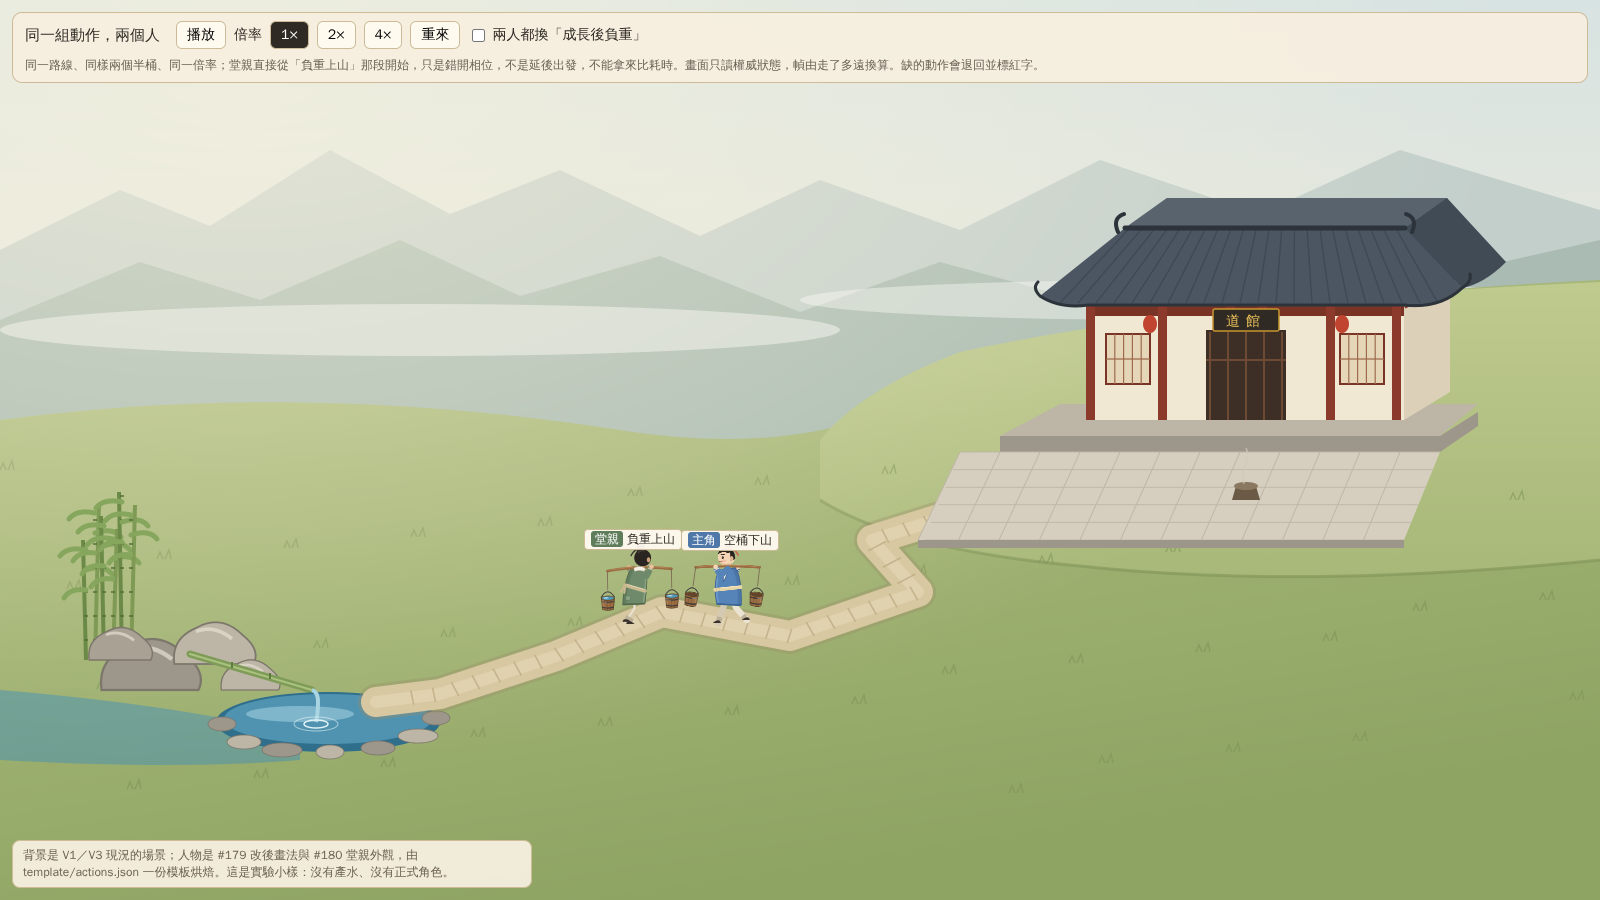
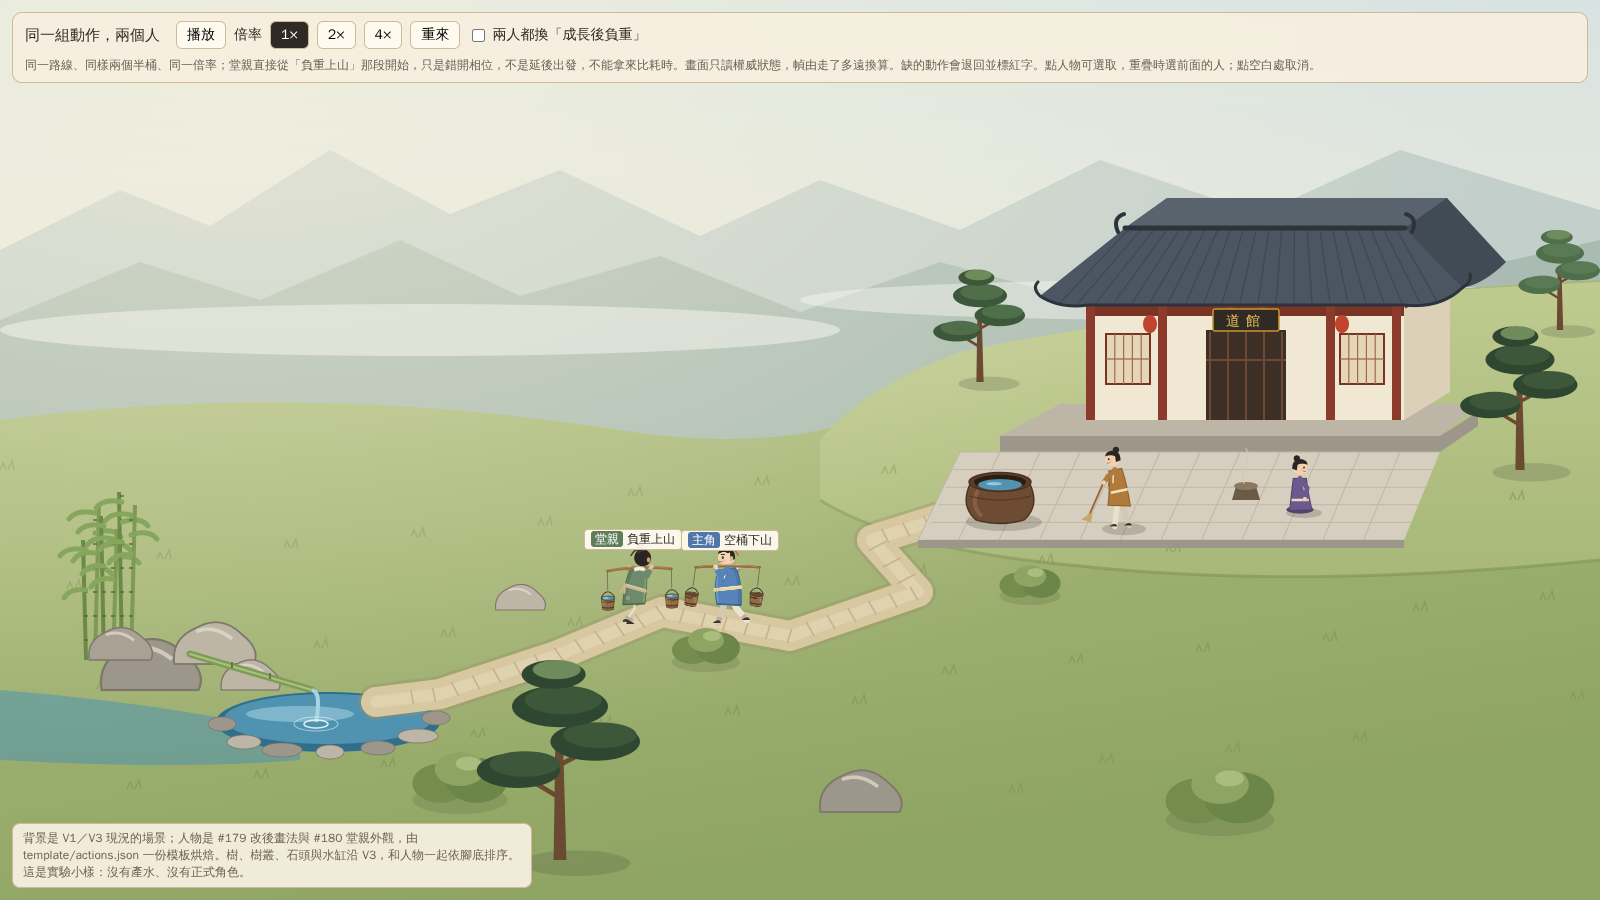
BL-V04: occlusion and selection in the template page (Refs #181)
Props from scene.json are depth-sorted with people by foot y; clicking a
character selects the frontmost hit (44px min tap target), shows a ring,
tag highlight and a read-only info panel. Selection never touches the
authority state. page-check grows to 20 checks with screenshots.

實際主筆：Claude

Claude-Session: https://claude.ai/code/session_012LmwTNb7S2YSXiJSVRNLd3

diff --git a/sect-chronicle/experiments/water-carry/template/checks/page-check.js b/sect-chronicle/experiments/water-carry/template/checks/page-check.js
@@ -1,5 +1,6 @@
 #!/usr/bin/env node
-// BL-V04 頁面檢查（#181）：真的打開 template/ 小樣頁，驗兩人共用動作在畫面上成立，並輸出兩張對照圖。
+// BL-V04 頁面檢查（#181）：真的打開 template/ 小樣頁，驗兩人共用動作在畫面上成立，並輸出對照圖。
+// 第 9～13 項驗第 4 項的遮擋與選取：點景與人物依腳底排序、點選與重疊選前、選取不改權威狀態、窄畫面點得到。
 // 只讀頁面公開的 window.v04；任何一項不成立就印 FAIL、結束碼 1。
 // 用法（在 experiments/water-carry 下，先 python3 -m http.server 8771）：
 //   NODE_PATH=$(npm root -g) node template/checks/page-check.js design/bl-v04
@@ -116,7 +117,102 @@ const check = (ok, msg) => { note(ok ? 'ok  ' : 'FAIL', msg); if (!ok) fails.pus
   check(hr && hr.action === 'idle' && hr.fallback, `主角休息：缺「坐下歇」→ 退回「待機」（${hr && hr.texture}）`);
   check(cr && cr.action === 'rest' && !cr.fallback, `堂親休息：顯示「坐下歇」（${cr && cr.texture}）`);
 
-  // 9. 對照板
+  // 9. 遮擋：點景與人物同層、依腳底 y 排序。走兩趟，每一步都核
+  const ov = (a, b) => a.x < b.x + b.w && b.x < a.x + a.w && a.y < b.y + b.h && b.y < a.y + a.h;
+  await click('#restart');
+  const props = await page.evaluate(() => window.v04.props().filter((q) => q.label !== 'Sprite'));
+  let sortedOk = true, wrong = 0;
+  const best = { behind: { step: -1, depth: 0 }, front: { step: -1, depth: 0 } };
+  const seen = {};
+  for (let i = 0; i < 1400; i++) {
+    await page.evaluate(() => window.v04.advance(100));
+    const r = await page.evaluate(() => ({ order: window.v04.order(), hero: window.v04.worldBox('hero'), cousin: window.v04.worldBox('cousin'), s: window.v04.snapshot() }));
+    const zs = r.order.filter((c) => c.label !== 'Sprite' || c.z !== 0).map((c) => c.z);
+    if (zs.some((z, j) => j && z < zs[j - 1])) sortedOk = false;
+    const idx = (l) => r.order.findIndex((c) => c.label === l);
+    for (const id of ['hero', 'cousin']) for (const q of props) {
+      if (!ov(r[id], q)) continue;
+      const front = idx(id) > idx(q.label), shouldFront = r.s.people[id].y > q.z;
+      if (front !== shouldFront) wrong++;
+      const k = `${q.label}:${front ? '人在前' : '人在後'}`;
+      seen[k] = (seen[k] || 0) + 1;
+      // 記下重疊最深的一步，最後各留一張近照：主角在水缸後倒水、走在石頭前
+      const depth = Math.min(r.hero.y + r.hero.h, q.y + q.h) - Math.max(r.hero.y, q.y);
+      if (id === 'hero' && !front && q.label === 'vat' && depth > best.behind.depth) best.behind = { step: i + 1, depth };
+      if (id === 'hero' && front && q.label === 'rock-a' && depth > best.front.depth) best.front = { step: i + 1, depth };
+    }
+  }
+  check(sortedOk, '走兩趟共 1400 步：每一步畫面的繪製順序都依腳底 y 由後到前');
+  for (const [k, file] of [['behind', 'occlude-behind.png'], ['front', 'occlude-front.png']]) {
+    if (best[k].step < 0) continue;
+    await click('#restart');
+    await page.evaluate((n) => window.v04.advance(n * 100), best[k].step);
+    const b = await page.evaluate(() => window.v04.screenBox('hero'));
+    await page.screenshot({ path: path.join(OUT, file), clip: { x: Math.round(b.x + b.w / 2 - 160), y: Math.round(b.y + b.h / 2 - 100), width: 320, height: 200 } });
+  }
+  const kinds = Object.keys(seen).sort();
+  check(wrong === 0 && kinds.some((k) => k.endsWith('人在前')) && kinds.some((k) => k.endsWith('人在後')),
+    `人物和點景重疊時前後都對（錯 ${wrong} 次）：${kinds.map((k) => `${k} ${seen[k]}`).join('、')}`);
+
+  // 10. 選取：點人物選到他、名牌加深、狀態欄顯示；點空白處取消
+  await click('#restart');
+  await page.evaluate(() => window.v04.advance(3000));
+  const hb = await page.evaluate(() => window.v04.screenBox('hero'));
+  await page.mouse.click(hb.x + hb.w / 2, hb.y + hb.h / 2);
+  const sel1 = await snap();
+  const panel = await page.evaluate(() => ({ shown: !document.getElementById('sel').hidden, text: document.getElementById('sel').textContent, tag: document.querySelector('.tag.hero').classList.contains('sel') }));
+  check(sel1.ui.selected === 'hero' && panel.shown && panel.tag && /主角/.test(panel.text), `點主角身上：選到主角，名牌加深，狀態欄「${panel.text}」`);
+  await page.screenshot({ path: path.join(OUT, 'select.png') });
+  await page.mouse.click(800, 220);
+  check((await snap()).ui.selected === null, '點天空空白處：取消選取，狀態欄收起');
+
+  // 11. 重疊時選前面的人：兩人在路上交會時點在重疊處
+  await click('#restart');
+  let crossed = null;
+  for (let i = 0; i < 1400 && !crossed; i++) {
+    await page.evaluate(() => window.v04.advance(100));
+    const r = await page.evaluate(() => ({ h: window.v04.screenBox('hero'), c: window.v04.screenBox('cousin'), s: window.v04.snapshot() }));
+    if (ov(r.h, r.c) && Math.abs(r.s.people.hero.y - r.s.people.cousin.y) > 1) crossed = r;
+  }
+  if (crossed) {
+    const x = (Math.max(crossed.h.x, crossed.c.x) + Math.min(crossed.h.x + crossed.h.w, crossed.c.x + crossed.c.w)) / 2;
+    const y = (Math.max(crossed.h.y, crossed.c.y) + Math.min(crossed.h.y + crossed.h.h, crossed.c.y + crossed.c.h)) / 2;
+    await page.mouse.click(x, y);
+    const want = crossed.s.people.hero.y > crossed.s.people.cousin.y ? 'hero' : 'cousin';
+    check((await snap()).ui.selected === want, `兩人交會、碰框重疊時點在重疊處：選到前面（腳底較低）的${want === 'hero' ? '主角' : '堂親'}`);
+  } else check(false, '兩人交會、碰框重疊：兩趟內沒找到交會的時刻');
+
+  // 12. 選取只改畫面：暫停、4×、重來後都還在，而且權威狀態和沒選時一樣
+  await click('#restart');
+  await page.evaluate(() => window.v04.advance(3000));
+  const hb2 = await page.evaluate(() => window.v04.screenBox('cousin'));
+  await page.mouse.click(hb2.x + hb2.w / 2, hb2.y + hb2.h / 2);
+  await click('[data-speed="4"]'); await click('#play'); await page.waitForTimeout(500); await click('#play'); await click('[data-speed="1"]');
+  const keep1 = (await snap()).ui.selected;
+  await click('#restart');
+  const keep2 = (await snap()).ui.selected;
+  await page.evaluate(() => window.v04.advance(8000));
+  const withSel = pick(await snap());
+  await page.mouse.click(800, 220);
+  await click('#restart');
+  await page.evaluate(() => window.v04.advance(8000));
+  const noSel = pick(await snap());
+  check(keep1 === 'cousin' && keep2 === 'cousin' && withSel === noSel, '選堂親後暫停、4× 播放、重來：選取都還在；選與不選推 8 秒，兩人的權威狀態完全相同');
+
+  // 13. 窄畫面 390px：人物只剩十幾 px 高，點選範圍仍有 44px
+  const nar = await browser.newPage({ viewport: { width: 390, height: 844 } });
+  nar.on('pageerror', (e) => errors.push(`narrow pageerror: ${e}`));
+  await nar.goto(BASE);
+  await nar.waitForFunction(() => window.v04 && window.v04.snapshot().ui.frames > 3, null, { timeout: 30000 });
+  await nar.click('#play'); await nar.click('#restart');
+  await nar.evaluate(() => window.v04.advance(3000));
+  const nb = await nar.evaluate(() => window.v04.screenBox('hero'));
+  await nar.mouse.click(nb.x + nb.w / 2, nb.y + nb.h + 12); // 腳底下方 12px：在身體碰框外、44px 範圍內
+  const ns = await nar.evaluate(() => window.v04.snapshot().ui.selected);
+  check(ns === 'hero', `390×844：主角碰框只有 ${nb.w.toFixed(0)}×${nb.h.toFixed(0)}px，點在腳底下方 12px 仍選到主角（點選範圍下限 44px）`);
+  await nar.close();
+
+  // 14. 對照板
   const cmp = await browser.newPage({ viewport: { width: 1600, height: 1000 } });
   cmp.on('pageerror', (e) => errors.push(`compare pageerror: ${e}`));
   await cmp.goto(`${BASE}?board=compare`);

diff --git a/sect-chronicle/experiments/water-carry/template/index.html b/sect-chronicle/experiments/water-carry/template/index.html
@@ -23,9 +23,13 @@
   .tag b { color: #fff; border-radius: 3px; padding: 0 4px; margin-right: 4px; font-weight: 400; }
   .tag.hero b { background: var(--hero); } .tag.cousin b { background: var(--kin); }
   .tag .fb { color: #a0461f; }
+  .tag.sel { border-color: #c8962e; box-shadow: 0 0 0 2px #c8962e; font-weight: 700; }
+  #sel { position: absolute; right: 12px; bottom: 12px; max-width: 360px; font-size: 13px; background: rgba(255, 250, 240, .96);
+    border: 1px solid #c8962e; border-radius: 8px; padding: 6px 10px; }
+  #sel small { display: block; color: var(--ink2); font-size: 12px; margin-top: 2px; }
   #legend { position: absolute; left: 12px; bottom: 12px; max-width: 520px; font-size: 12px; color: var(--ink2);
     background: rgba(246, 239, 224, .94); border: 1px solid var(--line); border-radius: 8px; padding: 6px 10px; }
-  body.compare #bar, body.compare #legend { display: none; }
+  body.compare #bar, body.compare #legend, body.compare #sel { display: none; }
 </style>
 </head>
 <body>
@@ -36,9 +40,10 @@
   <span>倍率</span><button data-speed="1" aria-pressed="true">1×</button><button data-speed="2">2×</button><button data-speed="4">4×</button>
   <button id="restart">重來</button>
   <label><input type="checkbox" id="grown"> 兩人都換「成長後負重」</label>
-  <span class="note">同一路線、同樣兩個半桶、同一倍率；堂親直接從「負重上山」那段開始，只是錯開相位，不是延後出發，不能拿來比耗時。畫面只讀權威狀態，幀由走了多遠換算。缺的動作會退回並標紅字。</span>
+  <span class="note">同一路線、同樣兩個半桶、同一倍率；堂親直接從「負重上山」那段開始，只是錯開相位，不是延後出發，不能拿來比耗時。畫面只讀權威狀態，幀由走了多遠換算。缺的動作會退回並標紅字。點人物可選取，重疊時選前面的人；點空白處取消。</span>
 </div>
-<div id="legend">背景是 V1／V3 現況的場景；人物是 #179 改後畫法與 #180 堂親外觀，由 template/actions.json 一份模板烘焙。這是實驗小樣：沒有產水、沒有正式角色。</div>
+<div id="legend">背景是 V1／V3 現況的場景；人物是 #179 改後畫法與 #180 堂親外觀，由 template/actions.json 一份模板烘焙。樹、樹叢、石頭與水缸沿 V3，和人物一起依腳底排序。這是實驗小樣：沒有產水、沒有正式角色。</div>
+<div id="sel" hidden></div>
 <script type="module" src="play.mjs"></script>
 </body>
 </html>

diff --git a/sect-chronicle/experiments/water-carry/design/BL-V04.md b/sect-chronicle/experiments/water-carry/design/BL-V04.md
@@ -18,12 +18,15 @@
 |---|---|
 | [bl-v04/compare.png](bl-v04/compare.png) | **先看這張**：七個動作，每列左主角、右堂親。同一個框、同一個腳底錨點。淡色加紅字表示這個人物沒有那組幀，已依模板退回 |
 | [bl-v04/walk.png](bl-v04/walk.png) | 同路展示截圖：主角空桶下山、堂親負重上山，名牌顯示當下動作 |
-| [bl-v04/page-check.log](bl-v04/page-check.log) | 頁面檢查 13 項的結果 |
+| [bl-v04/select.png](bl-v04/select.png) | 選中主角：腳下金圈、名牌加深，右下角顯示他的權威狀態 |
+| [bl-v04/occlude-behind.png](bl-v04/occlude-behind.png)、[occlude-front.png](bl-v04/occlude-front.png) | 遮擋近照：主角在水缸後被擋住前桶；走在石頭前擋住石頭 |
+| [bl-v04/page-check.log](bl-v04/page-check.log) | 頁面檢查 20 項的結果 |
 
 自己試：在 `sect-chronicle/experiments/water-carry/` 下執行 `python3 -m http.server 8771`，打開 http://127.0.0.1:8771/template/ 。
 
 - 頁面上可以暫停、切 1×／2×／4×、重來。
 - 勾「兩人都換成長後負重」，可以看到堂親沒有這組幀時怎麼退回。
+- 點人物可以選取，重疊時選前面的人；點空白處取消。
 - 網址加 `?board=compare` 會打開對照板。
 
 ## 狀態對照
@@ -75,6 +78,31 @@
 - **播放**：[`template/animator.mjs`](../template/animator.mjs) 是純函式：給狀態和 sheet，回答該顯示哪一幀。兩個人物共用它。
 - **控制**：展示頁的暫停、倍率、重來只改時鐘，不碰狀態。
 
+## 第 4 項：遮擋與選取
+
+#186 的審查指出「遮擋選取仍正確」還沒有證明，這節補上。範圍只在 `template/` 小樣頁，**沒有換進 V3 展示**。
+
+**遮擋**
+
+- 樹、樹叢、石頭與水缸沿 V3，從 `scene.json` 讀進同一個圖層，和兩個人物一起依腳底 y 排序。
+  - 腳底 y 較大的畫在前面。
+  - 素材與座標都沒改。
+- 現在這條路上，人物和點景真的有疊到的地方不多：
+  - **人在後**：倒水時人在水缸後，水缸擋住前桶。
+  - **人在前**：走過 `rock-a` 前面時，人擋住石頭。
+  - 走過 `bush-a`、`pine-d` 時只有外框重疊，畫面上幾乎沒有疊到。
+- 檢查用外框是否重疊來判斷前後，不是用像素。
+
+**選取**
+
+- **碰框**：用 sheet 的 `meta.hitbox`，也就是腳底為原點的身體碰框，不含扁擔與桶。人物左右翻時，碰框跟著翻。
+- **重疊時**：選腳底較前的人。
+- **取消**：點空白處。
+- **點選範圍下限**：螢幕上 44px。390px 寬時，主角碰框只有 6×13px，所以下限是必要的。
+- **選中後**：腳下一圈金色、名牌加深，右下角顯示權威狀態（動作、階段、這段走了多遠、已挑幾趟）。
+  - 沒有另外烘焙 `-sel` 幀。
+- **只改畫面**：選取只寫 `ui.selected`，不碰 walker。暫停、倍率、重來都保留選取。
+
 ## 選型：為什麼是 PixiJS 的 sprite sheet JSON
 
 | 方案 | 授權與來源 | 這次為什麼用或不用 |
@@ -95,7 +123,7 @@
 |---|---|
 | `NODE_PATH=$(npm root -g) node template/tools/bake.js` | exit 0。主角 15 幀、堂親 12 幀，兩張 sheet 都是 950×642px；幀框 190×214px，錨點 (90, 184) 相同 |
 | `node --test template/checks/template.test.mjs` | 7 項通過 |
-| `NODE_PATH=$(npm root -g) node template/checks/page-check.js design/bl-v04`（先開 8771） | 13 項 PASS，主控台 0 錯誤；在 Chromium 141 上跑，WebGL 用 SwiftShader |
+| `NODE_PATH=$(npm root -g) node template/checks/page-check.js design/bl-v04`（先開 8771） | 20 項 PASS，主控台 0 錯誤／警告；在 Chromium 141 上跑，WebGL 用 SwiftShader |
 
 **邏輯檢查（7 項）**
 
@@ -107,7 +135,7 @@
 - 60fps 1×、30fps 2×、一次補 10 秒，三種推法的權威狀態完全相同。
 - 一趟的順序正確、每兩趟歇一次、重來回到起點。
 
-**頁面檢查（13 項）**
+**頁面檢查（20 項）**
 
 - 兩人都來自同一份模板，幀框與錨點相同。
 - 暫停 0.7 秒，步數與幀都不變。
@@ -117,6 +145,16 @@
 - 同一張狀態表換出各自外觀的同一組動作。
 - 堂親缺成長後步態時退回並標紅字；主角有這組幀時照常顯示。
 - 主角休息時退回待機；堂親休息時坐下。
+- 遮擋：走兩趟共 1400 步，每一步的繪製順序都依腳底 y。人物和點景外框重疊時前後都對：
+  - 人在後：水缸 407 步、`pine-d` 307 步、`bush-a` 119 步。
+  - 人在前：`rock-a` 105 步。
+- 選取：
+  - 點主角選到主角；點空白處取消。
+  - 兩人交會、碰框重疊時，選到前面的人。
+  - 選堂親後暫停、4×、重來，選取都還在；選與不選各推 8 秒，權威狀態完全相同。
+- 窄畫面：390×844 下點在主角腳底下方 12px，仍選到主角。
+
+`walk.png` 這次重新輸出：現在多了沿 V3 的點景，人物的位置和動作沒有改。
 
 ## 沒改的
 
@@ -128,10 +166,11 @@
 ## 未驗與限制
 
 - 沒有換進 V3 展示。換進去要改 `demo/app.mjs` 的換幀段，並把 V3 的成長後步態與選取發光一起併進模板，屬於下一個小包。
-- 選取發光（V3 的 `-sel` 幀）這次沒有烘焙，預計改用 Pixi 的 tint 或濾鏡。
+- 選取不用 V3 的 `-sel` 發光幀，改用腳下圈與名牌。換進 V3 時要決定保留哪一種。
 - 背景仍是 V1／V3 現況的畫法，人物是 #179 的改後畫法，兩者的美術風格還沒統一。
 - 只有正背兩面加左右翻，沒有側面或斜向；取水與倒水只有單幀。
-- 窄畫面與觸控沒有驗。
+- 窄畫面只驗了 390px 點得到人。本頁沒有鏡頭跟隨、拖曳平移或縮放，所以這些觸控操作沒有驗；V3 已有這些，換進去時再驗。
+- 遮擋只驗到「依腳底 y」這一種規則。V3 現有點景都是單一底線；屋頂、樹冠這種要分上下兩半的遮擋（BL-W02 提過）沒有驗。
 
 ## 請遊戲 PO 看的
 
